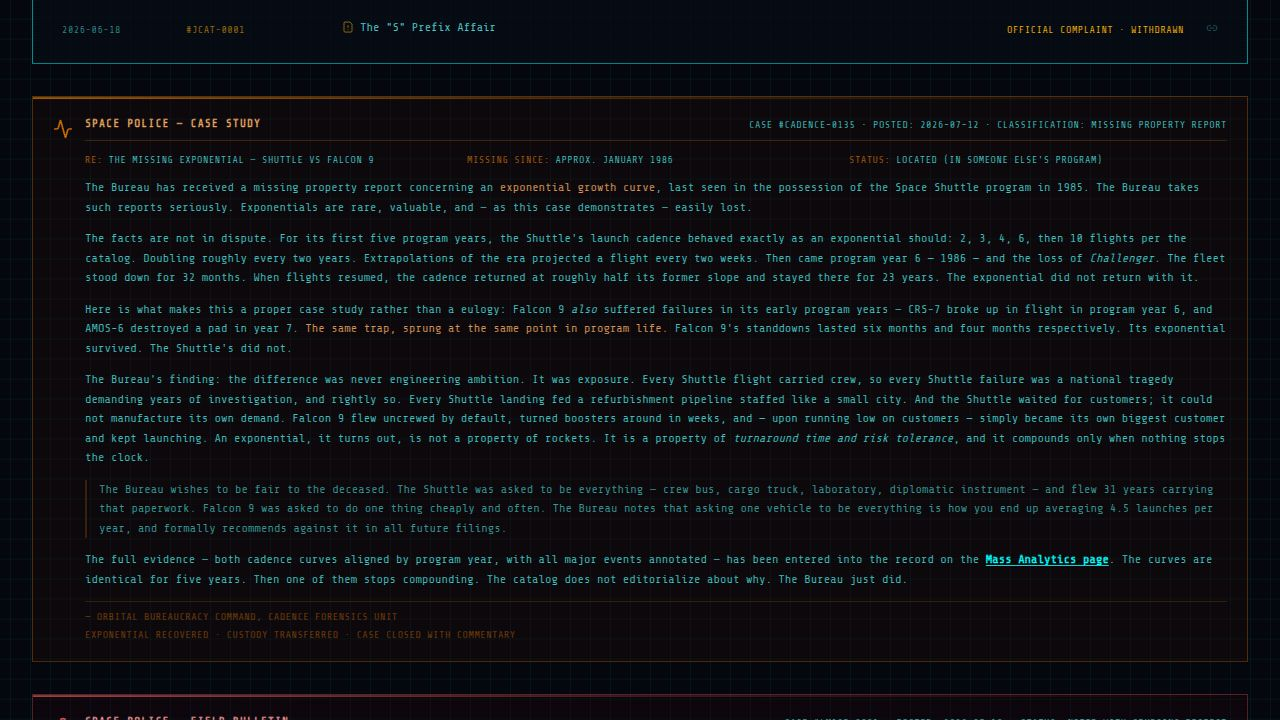
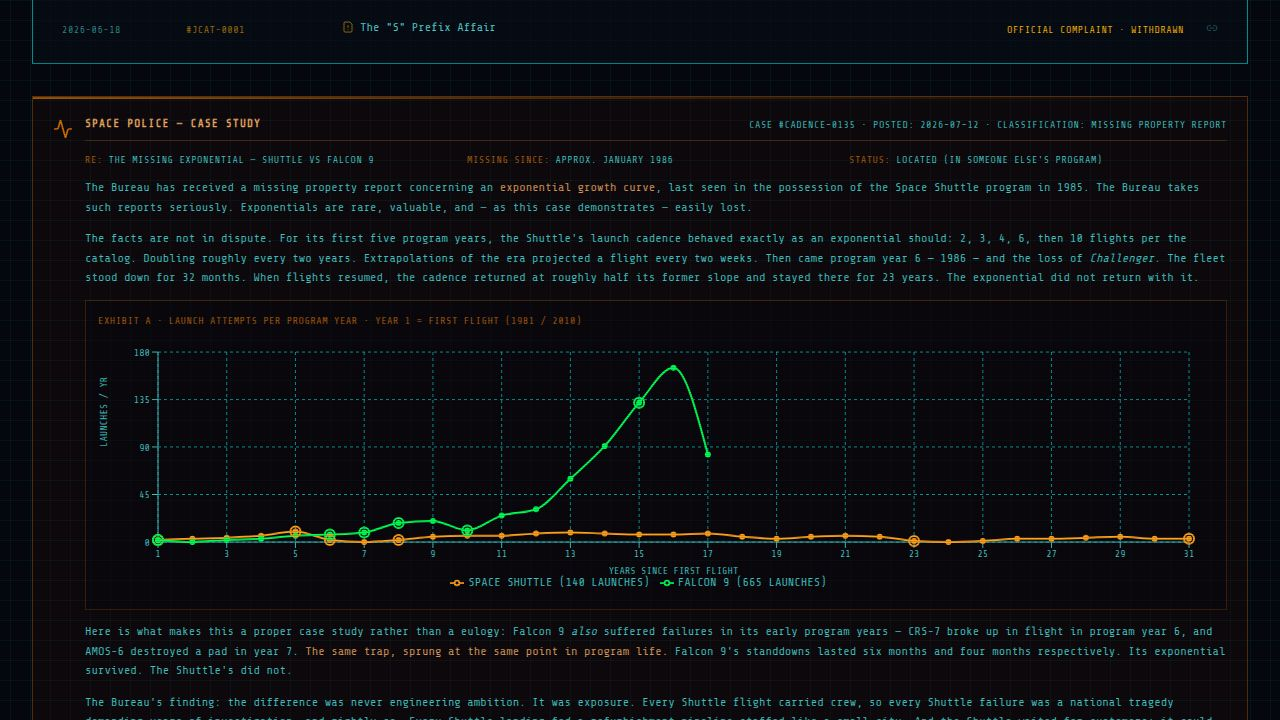
Add a compact view of the launch cadence chart to the briefing
Introduce a `compact` prop to `ShuttleVsFalconChart` component and embed it in the `home.tsx` briefing section, disabling animations for cleaner visuals.

Replit-Commit-Author: Agent
Replit-Commit-Session-Id: 84f6566b-9383-43d5-b8a4-7ee89903ffb7
Replit-Commit-Checkpoint-Type: full_checkpoint
Replit-Commit-Event-Id: a9b5fea9-1cf1-46f5-9114-24c1cd7437dd
Replit-Commit-Screenshot-Url: https://storage.googleapis.com/screenshot-production-us-central1/c9be012f-6946-4dea-841c-d7204502c0d9/84f6566b-9383-43d5-b8a4-7ee89903ffb7/3Pgcegn
Replit-Helium-Checkpoint-Created: true

Changed region(s): [[0.0312, 0.4278, 0.9688, 1.0]]

diff --git a/artifacts/space-report/src/components/ShuttleVsFalconChart.tsx b/artifacts/space-report/src/components/ShuttleVsFalconChart.tsx
@@ -12,14 +12,20 @@ import { GitCompareArrows } from "lucide-react";
 const SHUTTLE_COLOR = "hsl(35 100% 55%)";
 const FALCON_COLOR = "hsl(140 100% 50%)";
 
-export function ShuttleVsFalconChart() {
+export function ShuttleVsFalconChart({ compact = false }: { compact?: boolean }) {
   const { data, isLoading } = useGetSatcatShuttleVsFalconRate({
     query: { queryKey: getGetSatcatShuttleVsFalconRateQueryKey(), staleTime: 5 * 60 * 1000 },
   });
 
   if (isLoading || !data) {
     return (
-      <div className="flex items-center justify-center h-[420px] text-muted-foreground font-mono text-sm animate-pulse uppercase lg:col-span-2">
+      <div
+        className={
+          compact
+            ? "flex items-center justify-center h-[260px] text-muted-foreground font-mono text-xs animate-pulse uppercase"
+            : "flex items-center justify-center h-[420px] text-muted-foreground font-mono text-sm animate-pulse uppercase lg:col-span-2"
+        }
+      >
         Aligning program epochs...
       </div>
     );
@@ -81,21 +87,9 @@ export function ShuttleVsFalconChart() {
     );
   };
 
-  return (
-    <Card className="border-2 border-border bg-card lg:col-span-2 overflow-hidden relative" data-testid="chart-shuttle-vs-falcon">
-      <div className="absolute top-0 left-0 w-full h-full pointer-events-none border-scanline opacity-30" />
-      <CardHeader className="bg-muted/30 border-b border-border">
-        <CardTitle className="text-primary uppercase flex items-center gap-2 text-sm">
-          <GitCompareArrows className="w-4 h-4" /> Case Study: Where Did the Exponential Go? — Shuttle vs Falcon 9 Cadence
-        </CardTitle>
-        <p className="text-muted-foreground text-xs font-mono uppercase tracking-wider">
-          Launch attempts per program year · Year 1 = first flight ({data.shuttleFirstYear} / {data.falconFirstYear}) · Source: GCAT launch log
-        </p>
-      </CardHeader>
-      <CardContent className="pt-6 pb-4">
-        <div className="h-[380px] w-full">
-          <ResponsiveContainer width="100%" height="100%">
-            <LineChart data={rows} margin={{ top: 15, right: 25, left: 0, bottom: 5 }}>
+  const chart = (
+    <ResponsiveContainer width="100%" height="100%">
+      <LineChart data={rows} margin={{ top: 15, right: 25, left: 0, bottom: 5 }}>
               <CartesianGrid strokeDasharray="3 3" stroke="hsl(var(--border))" />
               <XAxis
                 dataKey="programYear"
@@ -126,6 +120,7 @@ export function ShuttleVsFalconChart() {
                 strokeWidth={2}
                 dot={{ r: 2, fill: SHUTTLE_COLOR }}
                 connectNulls={false}
+                isAnimationActive={false}
               />
               <Line
                 name={`Falcon 9 (${data.falconTotal} launches)`}
@@ -135,6 +130,7 @@ export function ShuttleVsFalconChart() {
                 strokeWidth={2}
                 dot={{ r: 2, fill: FALCON_COLOR }}
                 connectNulls={false}
+                isAnimationActive={false}
               />
               {events.map((e) => {
                 const v = valueFor(e);
@@ -151,9 +147,34 @@ export function ShuttleVsFalconChart() {
                   />
                 );
               })}
-            </LineChart>
-          </ResponsiveContainer>
-        </div>
+      </LineChart>
+    </ResponsiveContainer>
+  );
+
+  if (compact) {
+    return (
+      <div className="border border-orange-400/20 bg-background/40 p-3" data-testid="chart-shuttle-vs-falcon-compact">
+        <p className="text-[10px] font-mono uppercase tracking-wider text-orange-400/60 mb-2">
+          Exhibit A · Launch attempts per program year · Year 1 = first flight ({data.shuttleFirstYear} / {data.falconFirstYear})
+        </p>
+        <div className="h-[260px] w-full">{chart}</div>
+      </div>
+    );
+  }
+
+  return (
+    <Card className="border-2 border-border bg-card lg:col-span-2 overflow-hidden relative" data-testid="chart-shuttle-vs-falcon">
+      <div className="absolute top-0 left-0 w-full h-full pointer-events-none border-scanline opacity-30" />
+      <CardHeader className="bg-muted/30 border-b border-border">
+        <CardTitle className="text-primary uppercase flex items-center gap-2 text-sm">
+          <GitCompareArrows className="w-4 h-4" /> Case Study: Where Did the Exponential Go? — Shuttle vs Falcon 9 Cadence
+        </CardTitle>
+        <p className="text-muted-foreground text-xs font-mono uppercase tracking-wider">
+          Launch attempts per program year · Year 1 = first flight ({data.shuttleFirstYear} / {data.falconFirstYear}) · Source: GCAT launch log
+        </p>
+      </CardHeader>
+      <CardContent className="pt-6 pb-4">
+        <div className="h-[380px] w-full">{chart}</div>
 
         {/* Event ledger */}
         <div className="grid grid-cols-1 md:grid-cols-2 gap-4 mt-4 font-mono text-[11px]">

diff --git a/artifacts/space-report/src/pages/home.tsx b/artifacts/space-report/src/pages/home.tsx
@@ -8,6 +8,7 @@ import bryceUpmassChart from "@assets/image_1782288004026.png";
 import alpha5Faq from "@assets/image_1782450578315.png";
 import { UpmassAudit } from "@/components/UpmassAudit";
 import { ShuttleMassComplaint } from "@/components/ShuttleMassComplaint";
+import { ShuttleVsFalconChart } from "@/components/ShuttleVsFalconChart";
 import { LongMarchCatchBulletin } from "@/components/LongMarchCatchBulletin";
 
 export default function Home() {
@@ -135,6 +136,7 @@ export default function Home() {
                 for 32 months. When flights resumed, the cadence returned at roughly half its former slope
                 and stayed there for 23 years. The exponential did not return with it.
               </p>
+              <ShuttleVsFalconChart compact />
               <p>
                 Here is what makes this a proper case study rather than a eulogy: Falcon 9{" "}
                 <em>also</em> suffered failures in its early program years — CRS-7 broke up in flight in